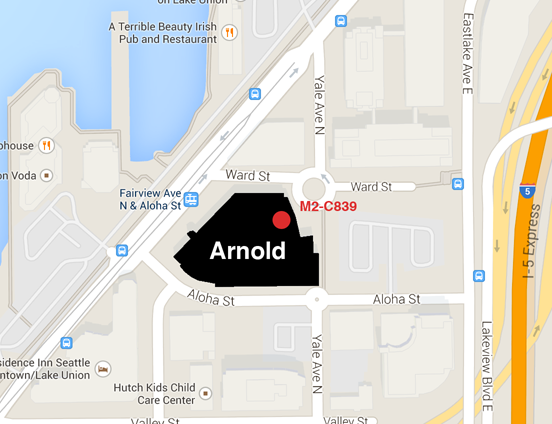
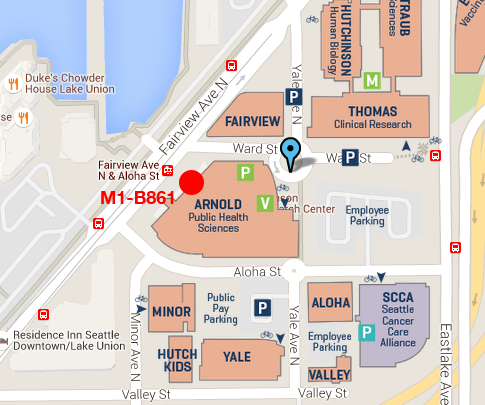
Update contact info.

diff --git a/misc/_posts/2013-10-25-contact.md b/misc/_posts/2013-10-25-contact.md
@@ -3,16 +3,16 @@ layout: misc
 title: Contact
 ---
 
-<img src="/images/fhcrc-logo.png"/>
-
-<a href="http://g.co/maps/ty32r"><img src="/images/fhcrc-campus.png"/></a>
+<a href="http://g.co/maps/ty32r"><img class="pull-right" src="/images/fhcrc-campus.png"/></a>
 
 <address>
-  Rooms M2-C839 and M2-A809<br>
+  Fred Hutch<br>
   Arnold Building<br>
-  Fred Hutchinson Cancer Research Center<br>
+  Room M1-B861<br>  
   1100 Fairview Ave N<br>
   Seattle, WA 98109<br>
+  <br>
   Phone: (206) 667-6372<br>
-  Email: trevor<span style="display:none">obfuscate</span>@bedford.io
+  Email: trevor<span style="display:none">obfuscate</span>@bedford.io<br>
+  Mailstop: M1-B514
 </address>
